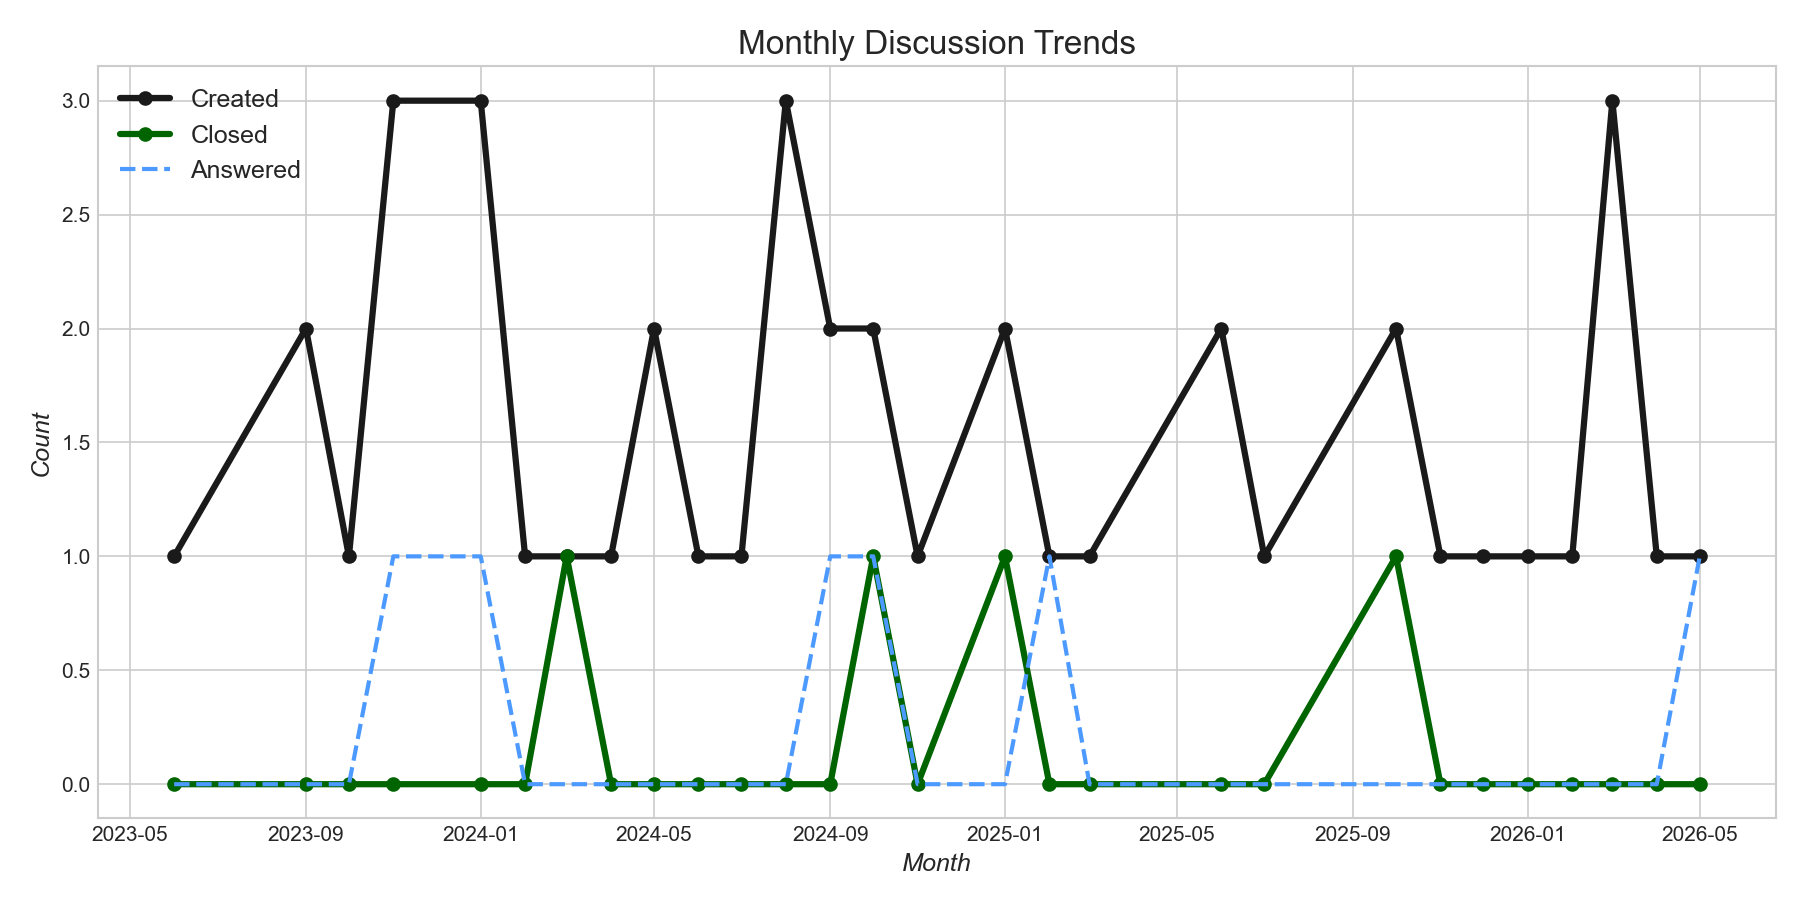
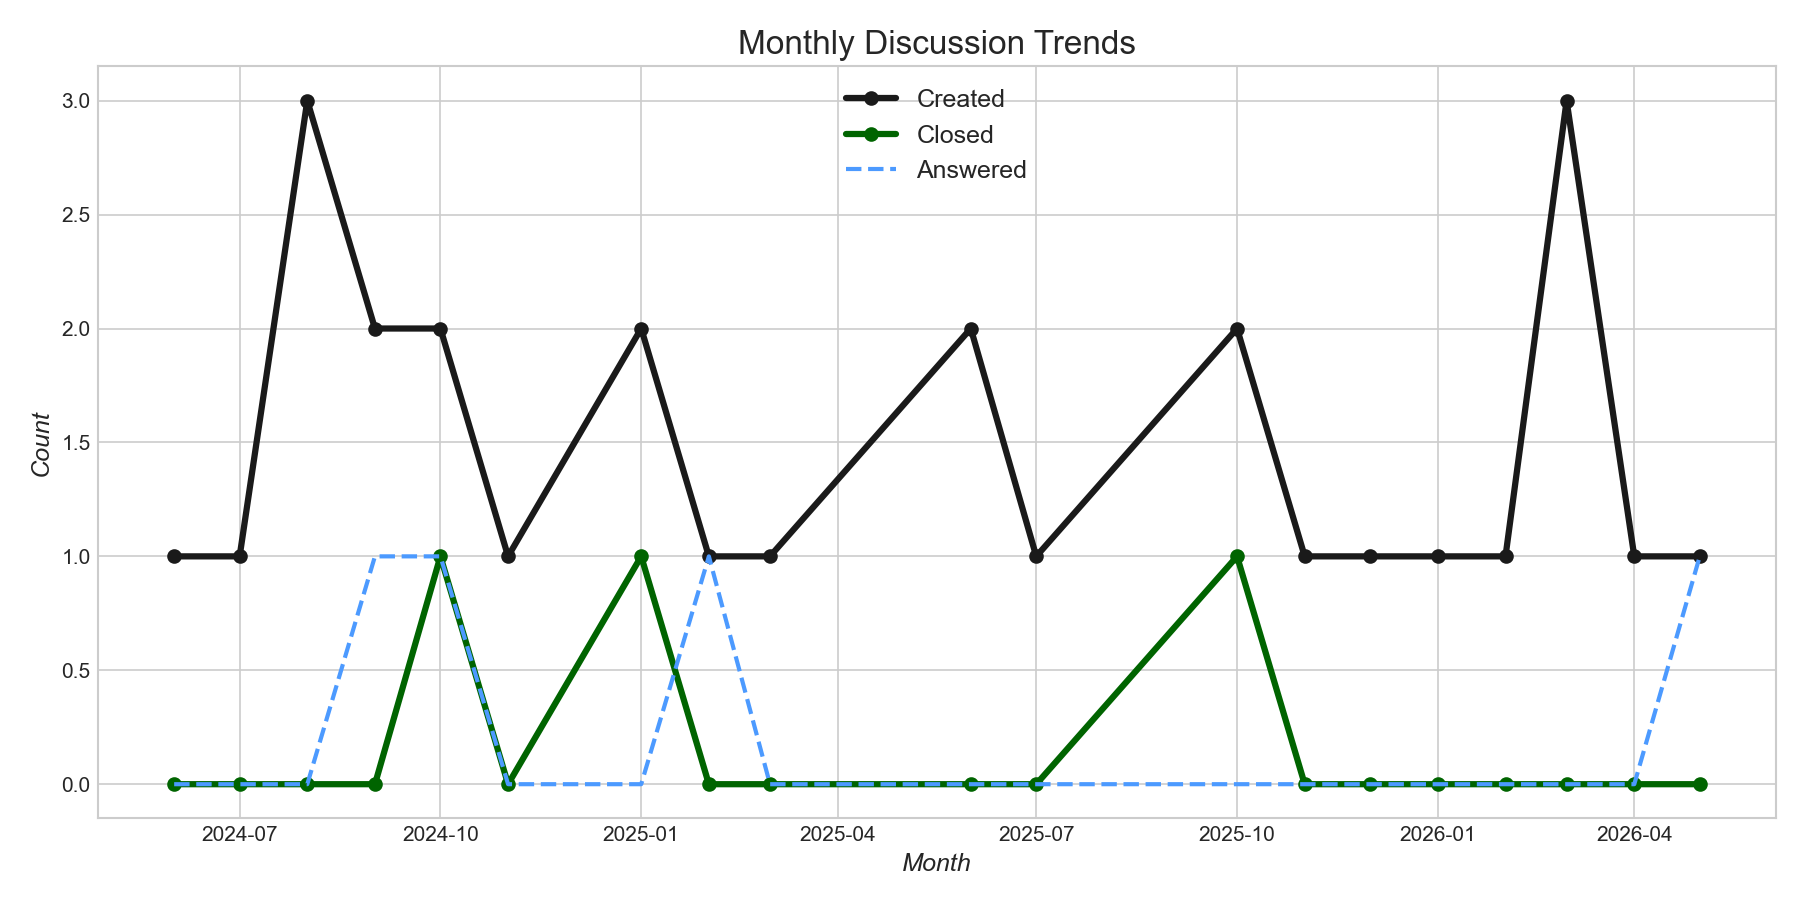
Switch default chart window from 3y to 2y

diff --git a/trends/tantivy.md b/trends/tantivy.md
@@ -52,15 +52,15 @@
 |------|--------|-----|-----------|
 | 2016 | 7 | 7 | 0 |
 | 2017 | 13 | 12 | 1 |
-| 2018 | 21 | 19 | 2 |
-| 2019 | 37 | 29 | 8 |
-| 2020 | 26 | 22 | 4 |
-| 2021 | 40 | 34 | 6 |
-| 2022 | 32 | 23 | 9 |
-| 2023 | 38 | 27 | 11 |
-| 2024 | 33 | 23 | 10 |
-| 2025 | 41 | 29 | 12 |
-| 2026 (YTD, 5mo) | 35 | 22 | 13 |
+| 2018 | 20 | 18 | 2 |
+| 2019 | 36 | 29 | 7 |
+| 2020 | 25 | 22 | 3 |
+| 2021 | 38 | 33 | 5 |
+| 2022 | 31 | 23 | 8 |
+| 2023 | 37 | 27 | 10 |
+| 2024 | 32 | 23 | 9 |
+| 2025 | 40 | 29 | 11 |
+| 2026 (YTD, 5mo) | 34 | 22 | 12 |
 
 <!-- AUTO:yearly-contributors:end -->
 

diff --git a/README.md b/README.md
@@ -91,7 +91,7 @@ github-tools generate-all \
 # Charts (still Python). --exclude-labels hides those label series from
 # label-frequency charts only; the underlying PR/issue counts are unaffected.
 python -m scripts.util.plot --env-file vector.env --input-dir out/summaries \
-  --window 3y \
+  --window 2y \
   --exclude-labels "no-changelog,meta: awaiting author"
 ```
 
